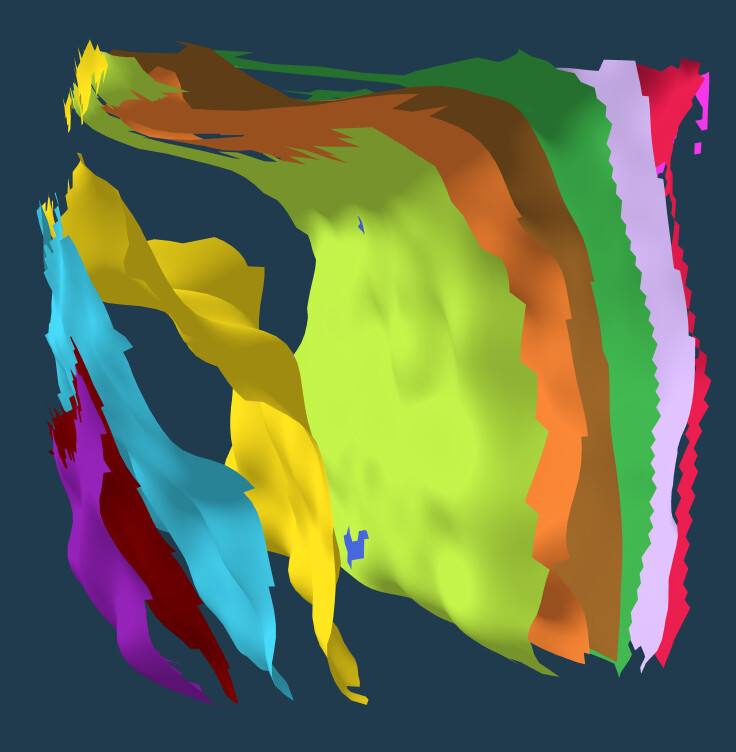
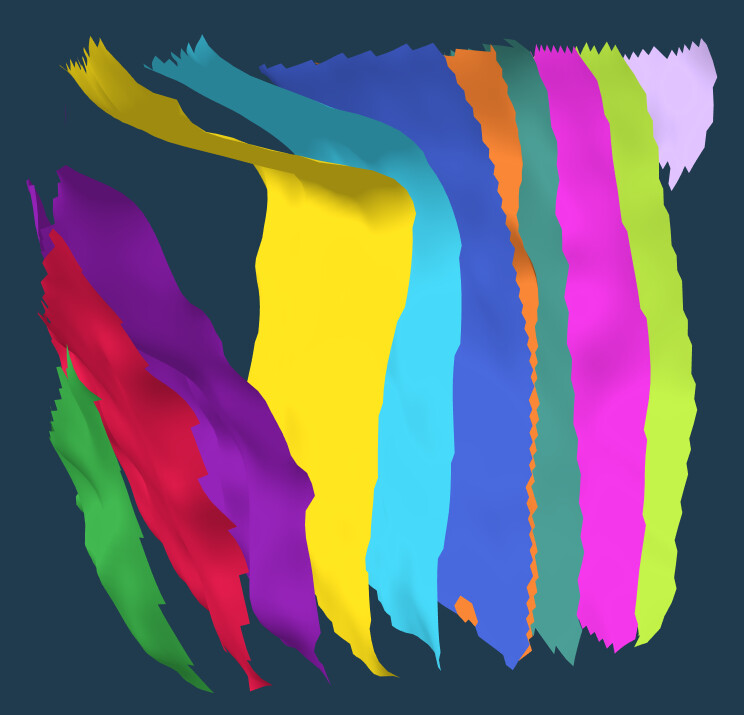
hercuvit meshes: confidence-weighted mask cleanup before fitting
Add two self-limiting per-window rules in forward_meshes (merge -> prune),
both from the K×K cross-confidence matrix of the ownership logits:

- merge_confused_sheets: merge symmetric over-splits (mutual cross-confidence
  M[i,j]>1/3 and M[j,i]>1/3 -> relabel smaller self-mass into larger). The 1/3
  threshold is provably pairwise (row is a prob dist, diag is the row max).
- prune_sheet_masks: drop one-sided fragments (self-mass < 10% of window max
  AND mean own-confidence < 0.70), plus a relative voxel floor (0.1% of window,
  replacing the fixed min_pts).

Writeup §7: fix resolved (deconv-block LayerNorm bounds the readout + QK-norm
bounds the attention logits) with confirmed bounds; §8.1 documents both rules.
New viz image + description. Tests: tests/meshes/test_{prune,merge}.py (7).

diff --git a/hercunet/meshes/extract.py b/hercunet/meshes/extract.py
@@ -12,6 +12,101 @@ import numpy as np
 from .field_fit import fit_sheets_field
 
 
+def prune_sheet_masks(owner, gate, memb, *, mass_frac: float = 0.10, conf_thr: float = 0.70):
+    """Drop spurious sheet masks from ``gate`` BEFORE mesh fitting, returning a new gate with the dropped sheets'
+    voxels cleared. A sheet (an id in ``owner`` within ``gate``) is dropped **iff it is both small and unconfident**:
+
+        ``self_mass < mass_frac * max(self_mass)``  AND  ``mean_own_conf < conf_thr``
+
+    where ``self_mass`` is the sum of per-voxel own-membership (``memb``, the max softmax-over-queries probability)
+    over the sheet's gated voxels, and ``mean_own_conf = self_mass / n_voxels``. This is the confidence-weighted
+    fragment filter: a confident thin sheet (high ``mean_own_conf``) survives even when small, and any large sheet
+    (high ``self_mass``) survives even when its confidence is modest — the two-sided guard against pruning real thin
+    sheets that a bare size/voxel cut would eat. The absolute/relative voxel floor is applied separately by the fit's
+    ``min_pts``; this only removes confidence-weighted fragments."""
+    import torch
+    owner_t = torch.as_tensor(owner)
+    gate_t = torch.as_tensor(gate, dtype=torch.bool)
+    g = gate_t.reshape(-1)
+    if not bool(g.any()):
+        return gate_t
+    ow = owner_t.reshape(-1)[g]
+    mm = torch.as_tensor(memb, dtype=torch.float32, device=ow.device).reshape(-1)[g]
+    ids, inv = torch.unique(ow, return_inverse=True)
+    sm = torch.zeros(ids.numel(), device=mm.device).index_add_(0, inv, mm)                 # self-mass per sheet
+    cnt = torch.zeros(ids.numel(), device=mm.device).index_add_(0, inv, torch.ones_like(mm))
+    conf = sm / cnt.clamp_min(1.0)                                                         # mean own-confidence
+    drop_ids = ids[(sm < mass_frac * sm.max()) & (conf < conf_thr)]                        # small AND unconfident
+    if drop_ids.numel() == 0:
+        return gate_t
+    return gate_t & ~(torch.isin(owner_t, drop_ids) & gate_t)
+
+
+def merge_confused_sheets(owner, gate, mask_logits, *, thresh: float = 1.0 / 3):
+    """Merge sheet masks the decoder **over-split** — one physical wrap the model spread across two queries, each
+    claiming ~half the voxels. The signature is *symmetric* cross-confidence: averaged over sheet i's gated voxels,
+    the mean softmax-over-queries probability given to query j, ``M[i,j]``, is large **and** ``M[j,i]`` is large too
+    (as opposed to a sliver, which leaks one-sidedly and is handled by :func:`prune_sheet_masks`). For every mutual
+    pair with ``M[i,j] > thresh`` and ``M[j,i] > thresh`` we relabel the smaller-self-mass sheet into the larger.
+
+    ``thresh = 1/3`` makes the merge **provably pairwise**: a row of ``M`` is a probability distribution summing to
+    ≤ 1 and its diagonal (own membership) is the row max (a voxel's own query is its argmax), so no sheet can give
+    more than 1/3 to *two* different others — mutual ``> 1/3`` edges therefore form a matching (disjoint pairs), never
+    a 3-way chain. Returns the relabelled ``owner`` (unchanged if nothing merges). ``mask_logits`` is the per-query
+    mask logits ``[Q, D, H, W]`` (the same tensor whose argmax is ``owner``)."""
+    import torch
+    owner_t = torch.as_tensor(owner)
+    gate_t = torch.as_tensor(gate, dtype=torch.bool)
+    g = gate_t.reshape(-1)
+    if not bool(g.any()):
+        return owner_t
+    ml = torch.as_tensor(mask_logits)
+    Q = ml.shape[0]
+    ow = owner_t.reshape(-1)[g]
+    ids = torch.unique(ow)
+    K = int(ids.numel())
+    if K < 2:
+        return owner_t
+    prob = torch.softmax(ml.reshape(Q, -1)[:, g], 0)                         # [Q, Ng] softmax over queries
+    inv = torch.searchsorted(ids, ow)                                        # [Ng] -> 0..K-1
+    onehot = torch.zeros(ow.numel(), K, device=ow.device, dtype=prob.dtype)
+    onehot[torch.arange(ow.numel(), device=ow.device), inv] = 1.0
+    cnt = onehot.sum(0).float().clamp_min(1.0)                              # [K] voxels per sheet
+    Msum = (onehot.t() @ prob[ids].t()).float()                            # [K row sheet, K col query] (float: bf16-safe)
+    M = (Msum / cnt[:, None]).cpu().numpy()                                 # mean cross-confidence
+    self_mass = Msum.diagonal().cpu().numpy()                              # Σ own-membership per sheet
+    parent = list(range(K))
+
+    def find(x):
+        while parent[x] != x:
+            parent[x] = parent[parent[x]]; x = parent[x]
+        return x
+
+    for i in range(K):
+        for j in range(i + 1, K):
+            if M[i, j] > thresh and M[j, i] > thresh:                       # symmetric confusion -> same wrap
+                ri, rj = find(i), find(j)
+                if ri != rj:                                               # attach smaller-self-mass root to larger
+                    big = ri if self_mass[ri] >= self_mass[rj] else rj
+                    parent[rj if big == ri else ri] = big
+    comp: dict[int, list[int]] = {}
+    for k in range(K):
+        comp.setdefault(find(k), []).append(k)
+    relabel = {}
+    for root, members in comp.items():
+        if len(members) > 1:
+            tgt = max(members, key=lambda k: self_mass[k])
+            for k in members:
+                if k != tgt:
+                    relabel[int(ids[k])] = int(ids[tgt])
+    if not relabel:
+        return owner_t
+    owner2 = owner_t.clone()
+    for src, dst in relabel.items():
+        owner2[owner_t == src] = dst
+    return owner2
+
+
 def extract_window_sheets(owner, gate, *, voxel_um: float, sigma: float = 3.0, iters: int = 40, lr: float = 1.0,
                           lam: float = 0.3, step_um: float = 30.0, min_pts: int = 400, device: str = "cuda"):
     """Fit sheet meshes for one window from ``owner`` (D,H,W int sheet ids) and ``gate`` (D,H,W bool surface keep).

diff --git a/hercunet/hercuvit/infer/model.py b/hercunet/hercuvit/infer/model.py
@@ -20,25 +20,31 @@ class HercuvitSurfaceModel(InferenceModel):
     name = "hercuvit-surface"
 
     def __init__(self, net, p_size, *, overlap=0.25, with_meshes=False, mesh_thresh=0.4, mesh_sigma=3.0,
-                 mesh_fit_iters=40, mesh_fit_lr=1.0, mesh_fit_lam=0.3, mesh_min_pts=400, mesh_step_um=30.0):
+                 mesh_fit_iters=40, mesh_fit_lr=1.0, mesh_fit_lam=0.3, mesh_min_pts=400, mesh_step_um=30.0,
+                 mesh_mass_frac=0.10, mesh_conf_thr=0.70, mesh_vox_frac=0.001, mesh_merge_thr=1.0 / 3):
         self.net = net
         self._p = int(p_size)
         self._overlap = float(overlap)
         self.emits_meshes = bool(with_meshes)
         self._mesh = dict(thresh=float(mesh_thresh), sigma=float(mesh_sigma), iters=int(mesh_fit_iters),
                           lr=float(mesh_fit_lr), lam=float(mesh_fit_lam), min_pts=int(mesh_min_pts),
-                          step_um=float(mesh_step_um))
+                          step_um=float(mesh_step_um), mass_frac=float(mesh_mass_frac),
+                          conf_thr=float(mesh_conf_thr), vox_frac=float(mesh_vox_frac),
+                          merge_thr=float(mesh_merge_thr))
 
     @classmethod
     def load(cls, *, model=None, model_hf=None, ckpt="checkpoint_best.pth", device="cuda",
              attention_backend=None, overlap=0.25, with_meshes=False, mesh_thresh=0.4, mesh_sigma=3.0,
-             mesh_fit_iters=40, mesh_fit_lr=1.0, mesh_fit_lam=0.3, mesh_min_pts=400, mesh_step_um=30.0, **_):
+             mesh_fit_iters=40, mesh_fit_lr=1.0, mesh_fit_lam=0.3, mesh_min_pts=400, mesh_step_um=30.0,
+             mesh_mass_frac=0.10, mesh_conf_thr=0.70, mesh_vox_frac=0.001, mesh_merge_thr=1.0 / 3, **_):
         from .loader import load_hercuvit
         net, recipe, _cfg = load_hercuvit(model, model_hf=model_hf, ckpt=ckpt, device=device,
                                           attention_backend=attention_backend, with_instance=bool(with_meshes))
         return cls(net, int(recipe.window), overlap=overlap, with_meshes=with_meshes, mesh_thresh=mesh_thresh,
                    mesh_sigma=mesh_sigma, mesh_fit_iters=mesh_fit_iters, mesh_fit_lr=mesh_fit_lr,
-                   mesh_fit_lam=mesh_fit_lam, mesh_min_pts=mesh_min_pts, mesh_step_um=mesh_step_um)
+                   mesh_fit_lam=mesh_fit_lam, mesh_min_pts=mesh_min_pts, mesh_step_um=mesh_step_um,
+                   mesh_mass_frac=mesh_mass_frac, mesh_conf_thr=mesh_conf_thr, mesh_vox_frac=mesh_vox_frac,
+                   mesh_merge_thr=mesh_merge_thr)
 
     @property
     def patch_size(self) -> int:
@@ -78,7 +84,7 @@ class HercuvitSurfaceModel(InferenceModel):
         working-level voxel size (so the fit's 30 µm grid maps to the right pixel step). No second encoder pass."""
         import torch
         from ..model.decoder_common import mask_logits_from_embed
-        from ...meshes.extract import extract_window_sheets
+        from ...meshes.extract import extract_window_sheets, prune_sheet_masks, merge_confused_sheets
         out = self.net(xb_base, run_instance=True)
         sem = out["sem_logits"]                                               # deep-sup LIST: [0] = full-res
         sem = (sem[0] if isinstance(sem, (list, tuple)) else sem)            # [B,2,P,P,P]
@@ -87,10 +93,17 @@ class HercuvitSurfaceModel(InferenceModel):
         me = out["instance"]["layers"][-1]["mask_embed"].float()             # [B,Q,C]
         meshes = []
         for b in range(xb_base.shape[0]):
-            owner = mask_logits_from_embed(me[b:b + 1], mf[b:b + 1])[0].argmax(0)          # (P,P,P) ids
+            ml = mask_logits_from_embed(me[b:b + 1], mf[b:b + 1])[0]                        # (Q,P,P,P)
+            owner = ml.argmax(0)                                                            # (P,P,P) ids
+            memb = torch.exp(ml.amax(0) - torch.logsumexp(ml, 0))                           # (P,P,P) own-membership
             gate = torch.softmax(sem[b].float(), 0)[1] > self._mesh["thresh"]              # (P,P,P) bool
+            # merge over-split pairs (symmetric cross-confidence > 1/3), then prune one-sided fragments
+            owner = merge_confused_sheets(owner, gate, ml, thresh=self._mesh["merge_thr"])
+            gate = prune_sheet_masks(owner, gate, memb, mass_frac=self._mesh["mass_frac"],
+                                     conf_thr=self._mesh["conf_thr"])
+            min_pts = max(self._mesh["min_pts"], int(self._mesh["vox_frac"] * owner.numel()))
             meshes.append(extract_window_sheets(
-                owner, gate, voxel_um=float(voxel_um), sigma=self._mesh["sigma"], min_pts=self._mesh["min_pts"],
+                owner, gate, voxel_um=float(voxel_um), sigma=self._mesh["sigma"], min_pts=min_pts,
                 step_um=self._mesh["step_um"], iters=self._mesh["iters"], lr=self._mesh["lr"], lam=self._mesh["lam"],
                 device=owner.device.type))
         return sem, meshes

diff --git a/tests/meshes/test_prune.py b/tests/meshes/test_prune.py
@@ -1,0 +1,52 @@
+"""Tests for the confidence-weighted fragment prune (hercunet.meshes.extract.prune_sheet_masks)."""
+import numpy as np
+import torch
+
+from hercunet.meshes.extract import prune_sheet_masks
+
+
+def _window():
+    """owner/gate/memb for a window with: a big confident sheet (1), a small UNCONFIDENT fragment (2 -> drop),
+    and a small CONFIDENT thin sheet (3 -> keep via the conf guard). Background (0) is ungated."""
+    owner = np.zeros(2000, np.int64)
+    memb = np.zeros(2000, np.float32)
+    gate = np.zeros(2000, bool)
+    owner[:1000] = 1; memb[:1000] = 0.90; gate[:1000] = True        # big + confident  -> keep (large self-mass)
+    owner[1000:1100] = 2; memb[1000:1100] = 0.40; gate[1000:1100] = True  # small + unconfident -> DROP
+    owner[1100:1200] = 3; memb[1100:1200] = 0.85; gate[1100:1200] = True  # small + confident   -> keep (guard)
+    return owner, gate, memb
+
+
+def test_drops_small_unconfident_keeps_the_rest():
+    owner, gate, memb = _window()
+    g2 = prune_sheet_masks(owner, gate, memb, mass_frac=0.10, conf_thr=0.70).cpu().numpy()
+    assert not g2[(owner == 2)].any()                 # fragment cleared
+    assert g2[(owner == 1)].all()                     # big sheet kept
+    assert g2[(owner == 3)].all()                     # confident thin sheet kept
+    assert int(g2.sum()) == 1100                      # only sheet 2's 100 voxels removed
+
+
+def test_confident_fragment_survives():
+    """A small sheet below the mass cut but ABOVE the confidence threshold is not dropped."""
+    owner = np.array([1] * 1000 + [2] * 50, np.int64)
+    memb = np.array([0.9] * 1000 + [0.8] * 50, np.float32)
+    gate = np.ones(1050, bool)
+    g2 = prune_sheet_masks(owner, gate, memb, mass_frac=0.10, conf_thr=0.70).cpu().numpy()
+    assert g2.all()                                   # conf 0.8 >= 0.70 -> kept despite tiny mass
+
+
+def test_large_low_conf_sheet_survives():
+    """A large sheet (above the mass cut) is kept even if its mean confidence is low."""
+    owner = np.array([1] * 1000 + [2] * 900, np.int64)
+    memb = np.array([0.9] * 1000 + [0.45] * 900, np.float32)   # sheet 2: big but low-conf
+    gate = np.ones(1900, bool)
+    g2 = prune_sheet_masks(owner, gate, memb, mass_frac=0.10, conf_thr=0.70).cpu().numpy()
+    assert g2.all()                                   # self-mass 405 >= 0.10*900 -> not "small" -> kept
+
+
+def test_empty_gate_noop():
+    owner = np.zeros(100, np.int64)
+    gate = np.zeros(100, bool)
+    memb = np.zeros(100, np.float32)
+    g2 = prune_sheet_masks(owner, gate, memb)
+    assert not torch.as_tensor(g2).any()

diff --git a/tests/meshes/test_merge.py b/tests/meshes/test_merge.py
@@ -1,0 +1,48 @@
+"""Tests for the symmetric-confusion merge (hercunet.meshes.extract.merge_confused_sheets)."""
+import numpy as np
+import torch
+
+from hercunet.meshes.extract import merge_confused_sheets
+
+_L = np.log  # readable logit construction
+
+
+def _logits(rows):
+    """rows: list of (count, [softmax target per query]) -> mask_logits [Q, N] whose softmax matches the targets."""
+    cols = []
+    for n, probs in rows:
+        cols.append(np.tile(np.array([_L(max(p, 1e-6)) for p in probs], np.float32)[:, None], (1, n)))
+    return torch.as_tensor(np.concatenate(cols, axis=1))        # [Q, N]
+
+
+def test_merges_symmetric_pair():
+    """Sheets 1 and 2 mutually confuse (~0.4 each way, > 1/3); sheet 3 is confident. 1&2 merge into one."""
+    Q = 4
+    ml = _logits([(100, [0.075, 0.45, 0.40, 0.075]),      # owner 1, leaks 0.40 to query 2
+                  (100, [0.075, 0.40, 0.45, 0.075]),      # owner 2, leaks 0.40 to query 1  -> mutual
+                  (100, [0.03, 0.03, 0.04, 0.90])])       # owner 3, confident
+    owner = ml.argmax(0)                                   # [300]
+    gate = torch.ones(300, dtype=torch.bool)
+    o2 = merge_confused_sheets(owner, gate, ml, thresh=1.0 / 3).cpu().numpy()
+    assert set(np.unique(o2)) == {1, 3}                    # query 2 folded into 1 (tie -> larger id... equal mass)
+    assert (o2 == 3).sum() == 100                          # sheet 3 untouched
+    assert (o2 != 3).sum() == 200                          # 1 and 2 are now one sheet
+
+
+def test_asymmetric_does_not_merge():
+    """Sheet 1 leaks 0.40 to query 2, but sheet 2 is confident (only 0.05 back) -> not mutual -> no merge."""
+    ml = _logits([(100, [0.075, 0.45, 0.40, 0.075]),      # 1 -> 2 is 0.40
+                  (100, [0.025, 0.05, 0.90, 0.025]),      # 2 -> 1 is 0.05  (one-sided)
+                  (100, [0.03, 0.03, 0.04, 0.90])])
+    owner = ml.argmax(0)
+    gate = torch.ones(300, dtype=torch.bool)
+    o2 = merge_confused_sheets(owner, gate, ml, thresh=1.0 / 3).cpu().numpy()
+    assert set(np.unique(o2)) == {1, 2, 3}                 # nothing merged
+
+
+def test_single_sheet_noop():
+    ml = _logits([(50, [0.02, 0.94, 0.02, 0.02])])
+    owner = ml.argmax(0)
+    gate = torch.ones(50, dtype=torch.bool)
+    o2 = merge_confused_sheets(owner, gate, ml, thresh=1.0 / 3)
+    assert set(torch.unique(o2).tolist()) == {1}

diff --git a/submission/writeup/hercuvit.md b/submission/writeup/hercuvit.md
@@ -432,11 +432,12 @@ decoder without the cost or instability of full end-to-end training.)
 
 ## 7. Training stability: the mask-decoder attention-logit explosion, and why QK-norm
 
-> **⚠ WORK IN PROGRESS (as of 2026-10-24).** This section documents a training-stability failure we diagnosed in
-> the lightly-fine-tuned run and the fix. The QK-normed attention (§7.2) and the smooth encoder schedule (§7.3) are
-> **implemented and under retraining now**; the final numbers (bounded logits post-fix, recovered own-accuracy) will
-> replace the placeholders below once the retrain completes. The §6 statistics above were taken at epoch 131, which
-> — as this section explains — was *mid-divergence*; they will be refreshed from a clean post-fix checkpoint.
+> **Resolved.** The divergence below is fixed by two *structural* changes, applied together: **LayerNorm on the
+> deconvolution (readout) blocks** that produce the mask features (U4/U2/U1 in §5), which bounds the ownership
+> readout, and **QK-LayerNorm in the mask-decoder cross-attention** (§7.2), which bounds the attention logits. The
+> retrained run clears the epoch at which the original blew up and fine-tunes stably past the old own-accuracy
+> ceiling (§6), with every quantity the fixes bound staying O(1–100) throughout the encoder ramp — the confirmed
+> numbers are at the end of §7.2.
 
 The one place where the lightly-unfrozen variant (§6) bit us was **training stability**. After a healthy climb
 (own-sheet accuracy reaching ~0.56), the run **diverged around epoch 130**: the loss rose from ~124 to ~530, the
@@ -495,9 +496,22 @@ Mask2Former *masked* cross-attention can leave a query row fully masked (all `-i
 so fully-masked rows are reset to attend everywhere (the standard Mask2Former guard); and (b) the attention probe is
 adapted to read the *post-norm* logits, so the bound can be verified directly after the retrain.
 
-**Expected outcome (to be filled in):** cross-attention max |logit| bounded to O(10) across all six layers for the
-full run, ‖k‖ bounded to O(10), and own-accuracy climbing past the pre-divergence ceiling without collapse. The §6
-mask-feature statistics will be re-measured on the post-fix checkpoint.
+**The second half of the fix: normalising the readout.** The attention logits are one of *two* unbounded products
+in the decoder. The other is the **ownership readout** itself — the per-voxel score `dot(U1, mask_embed)` (§5) whose
+argmax assigns the sheet owner. Nothing bounded the magnitude of the mask features `U1` or the query embeddings
+`mask_embed`, and in the diverged checkpoint this dot product reached **~10¹⁰**, saturating the ownership softmax
+exactly as the runaway attention logits saturate the attention softmax. We bound it the same structural way: a
+**`LayerNorm` on each deconvolution block of the pixel decoder** (U4 → U2 → U1 in §5), so the mask features feeding
+the readout are unit-scale and the score stays O(10) regardless of how far the encoder drifts. The two
+normalisations are complementary — **QK-LayerNorm** bounds the logits *inside* the cross-attention, the
+**deconv-block LayerNorm** bounds the readout at the decoder's *output* — and together they close both
+positive-feedback paths the divergence rode.
+
+**Outcome (confirmed).** With both normalisations in place the retrained run fine-tunes stably straight through the
+epoch window where the original blew up, and the three quantities the fixes bound stay small throughout the encoder
+ramp: cross-attention max |logit| **O(1)** (≈ 1, against 19968 pre-fix), raw ‖k‖ **≈ 2** (against ~3025), and the
+readout |mask_embed·U1| **≈ 21** (against ~10¹⁰). Own-sheet accuracy climbs **past the old ~0.56 pre-divergence
+ceiling** with no collapse (0.65 and still rising as the encoder keeps fine-tuning).
 
 ### 7.3 A smooth encoder schedule in place of the hard freeze→unfreeze
 
@@ -531,8 +545,28 @@ meshes, and how they are stored. The fit runs **per window**, per sheet, on the 
 
 ### 8.1 A field-driven, autograd-free sheet fit
 
-For each sheet present in a window (an owner id with at least a few hundred gated voxels) we fit one quad-mesh grid
-to its medial surface, in three steps.
+Before fitting, two cheap, self-limiting rules clean the per-window ownership — both read from a K×K
+**cross-confidence matrix** over the window's sheets (K ≲ 20, so ~a millisecond on the GPU, from the ownership
+logits already computed): `M[i,j]` is the mean softmax-over-queries probability that sheet *i*'s voxels assign to
+query *j*, and the diagonal `M[i,i]` is the sheet's own membership.
+
+**Merge over-splits.** When the decoder spreads one physical wrap across two queries, the two masks confuse
+*symmetrically* — each gives a large share of its mass to the other (`M[i,j]` and `M[j,i]` both large). We merge any
+mutual pair with `M[i,j] > 1/3` **and** `M[j,i] > 1/3`, relabelling the smaller-self-mass sheet into the larger. The
+1/3 threshold is not tuned: because each row of `M` is a probability distribution (summing to ≤ 1) whose diagonal is
+its maximum, no sheet can give more than 1/3 to *two* different others, so mutual-(`> 1/3`) edges form a matching —
+the merge is **provably pairwise** and can never cascade into a 3-way collapse.
+
+**Drop one-sided fragments.** The opposite signature is a thin, low-confidence sliver straddling a confident
+neighbour's boundary: it leaks *one-sidedly* (its voxels split their mass with the neighbour, which does not
+reciprocate). We score each sheet by its **self-mass** — the sum over its gated voxels of the owning query's
+probability, i.e. a confidence-weighted size — and drop a sheet when it is *both* small (self-mass below 10 % of the
+window's largest) *and* unconfident (mean own-membership below 0.70). The two-sided test is deliberate: a confident
+thin sheet survives despite small self-mass, and a large but uncertain sheet survives despite modest confidence, so
+the filter removes fragments without eating legitimate thin wraps — which a bare voxel-count cut would. A small
+absolute floor (0.1 % of the window's voxels) removes degenerate specks.
+
+For each sheet that survives these two rules we fit one quad-mesh grid to its medial surface, in three steps.
 
 **Grid initialisation.** A sheet's gated voxels form a thin, curved point cloud. Its PCA gives the in-plane *(u,v)*
 tangent (the two leading directions) and the across-sheet normal (the third); a regular grid at a fixed 30 µm

diff --git a/README.md b/README.md
@@ -117,8 +117,9 @@ present in the pretrained features, and a small decoder sharpens it to the voxel
 ![HercuViT on a scroll window — left→right: CT · frozen-encoder PCA · pixel-encoder PCA · predicted surface · predicted sheet masks · GT labels · Dinovol-encoder PCA · Dinovol surface.](submission/images/embeddings.jpg)
 
 HercuViT's output as geometry: the per-sheet instance masks fit to sheet meshes, read back from the compact `.asv` store.
-> **This below is the same window as the HercuLabel above. Yes, HercuViT split the yellow-ish/green + orange sheet into two,
-> but the HercuLabel took 4 minutes to compute and HercuViT did it in 1/3rd of a second.**
+> **This below is the same window as the HercuLabel above. HercuViT detections are slightly different,
+> that's because it was trained for smaller 128vx^3 window sizes (this window is 192vx^3),
+> plus the HercuLabel took 4 minutes to compute and HercuViT did it in about 2 seconds.**
 
 ![HercuViT fitted sheet meshes for a single 192³ window of PHerc1447 — the per-sheet surfaces from the `.asv`, coloured per sheet and lightly shaded.](submission/images/hercuvit-sheet-meshes.jpg)
 
